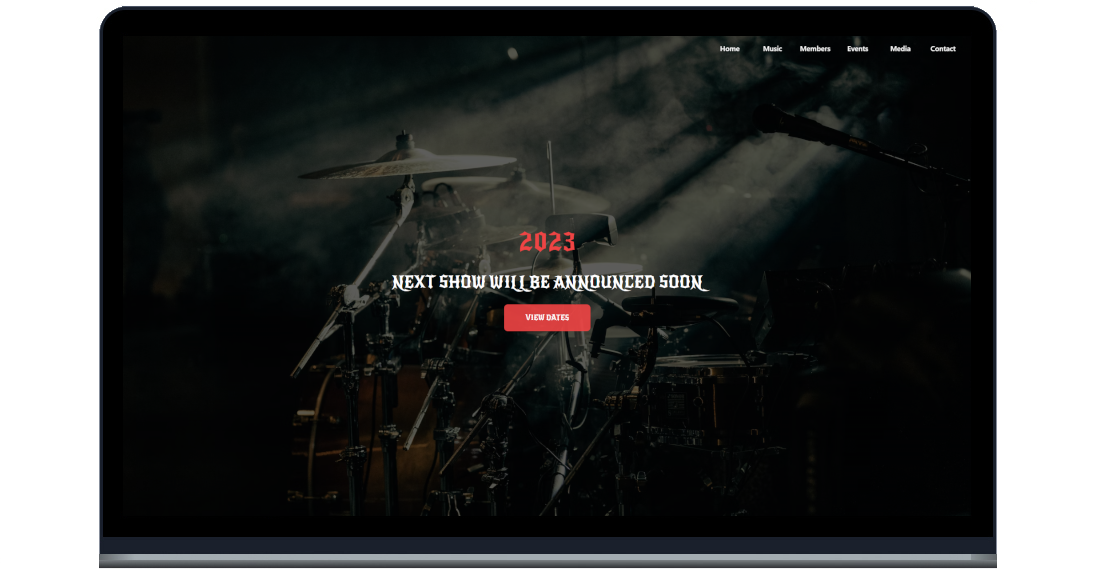
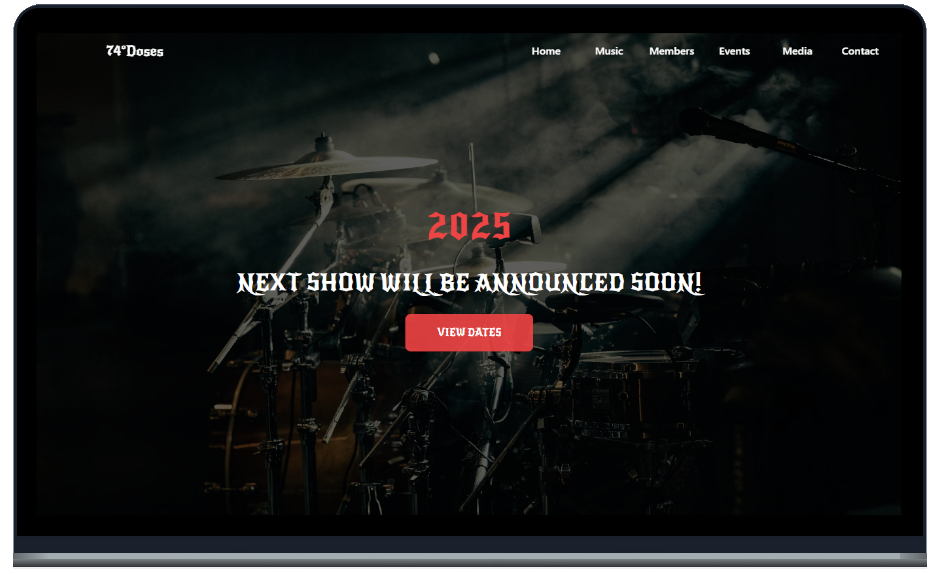
Fix full readme

diff --git a/FrontEnd/src/app/shared/services/_axiosConfig.js b/FrontEnd/src/app/shared/services/_axiosConfig.js
@@ -17,8 +17,5 @@ const api = axios.create({
 
 export default api;
 
-
-
-// README
 // SPOTIFY integration embbebed
 // FOOTER

diff --git a/README.md b/README.md
@@ -1,5 +1,5 @@
 <h1 align="center">
-  <img alt="my-j-list-logo" src="_Apresentation/logo.png"  />
+  <img alt="my-j-list-logo" src="_Apresentation/band.png"  />
 </h1>
 
 <p align="center">
@@ -15,8 +15,7 @@
 
 <p align="center">
   <img alt="License" src="https://img.shields.io/static/v1?label=license&message=MIT&color=fadd36&labelColor=000000">
-
- <img src="https://img.shields.io/static/v1?label=Project&message=04&color=fadd36&labelColor=000000" alt="Project 05" />
+  <img src="https://img.shields.io/static/v1?label=Project&message=04&color=fadd36&labelColor=000000" alt="Project 05" />
 </p>
 
 <br>
@@ -36,15 +35,21 @@ Esse projeto foi desenvolvido com as seguintes tecnologias:
 - [HTML5](https://developer.mozilla.org/pt-BR/docs/Web/HTML)
 - [Yarn](https://yarnpkg.com/)
 - [Javascript](https://www.typescriptlang.org/)
+- [TypeScript](https://www.typescriptlang.org/)
+- [Axios](https://axios-http.com/)
+- [NestJS](https://nestjs.com/)
+- [JWT](https://jwt.io/)
+- [PostgreSQL](https://www.postgresql.org/)
+- [i18next](https://www.i18next.com/)
+- [Font Awesome](https://fontawesome.com/)
 
 ## 💻 Projeto
 
-O SuperVisionario é um site que apresenta uma das banda mais populares da atualidade, 
-com o intuito de divulgar e fazer o marketing ao publico interessado.
+O **74doses** é um site dedicado a apresentar uma das bandas mais populares da atualidade. Seu objetivo é divulgar o trabalho do grupo, fortalecer sua presença digital e aproximar fãs e novos públicos por meio de informações, conteúdos e uma experiência envolvente.
 
 ## 🔖 Layout
 
-Você pode visualizar o layout do projeto através da pasta prototipagem do próprio repositório.
+Você pode visualizar a inspiração do projeto na pasta **prototipagem** disponível no próprio repositório, onde estão os protótipos que serviram como base para o desenvolvimento da interface.
 
 ## 🗃 Gerenciamento
 
